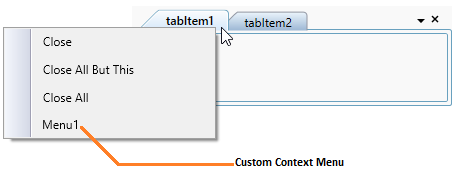
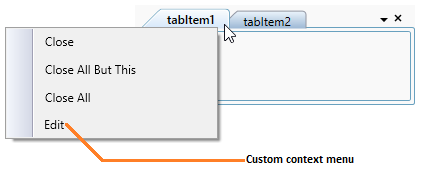
WPF-48386-Modified Context menu document for TabControl

Changed region(s): [[0.0, 0.0296, 1.0, 0.9763]]

diff --git a/wpf/TabControl/ContextMenu.md b/wpf/TabControl/ContextMenu.md
@@ -119,12 +119,12 @@ You can add the custom tabitem context menu using the [TabItemExt.ContextMenuIte
 <syncfusion:TabControlExt Name="tabControl" IsCustomTabItemContextMenuEnabled="True">
     <syncfusion:TabItemExt Header="tabItem1">
         <syncfusion:TabItemExt.ContextMenuItems>
-            <syncfusion:CustomMenuItem Header="Menu1" />
+            <syncfusion:CustomMenuItem Header="Edit" />
         </syncfusion:TabItemExt.ContextMenuItems>
     </syncfusion:TabItemExt>
-    <syncfusion:TabItemExt Header="tabItem2" IsSelected="True">
+    <syncfusion:TabItemExt Header="tabItem2">
         <syncfusion:TabItemExt.ContextMenuItems>
-            <syncfusion:CustomMenuItem Header="Menu2" />
+            <syncfusion:CustomMenuItem Header="Edit" />
         </syncfusion:TabItemExt.ContextMenuItems>
     </syncfusion:TabItemExt>
 </syncfusion:TabControlExt>
@@ -138,12 +138,12 @@ tabControlExt.IsCustomTabItemContextMenuEnabled = true;
 
 // Adding custom context menu for the first tabitem
 CustomMenuItem customMenuItem = new CustomMenuItem();
-customMenuItem.Header = "Menu1";
+customMenuItem.Header = "Edit";
 tabItemExt1.ContextMenuItems.Add(customMenuItem);
 
 // Adding custom context menu for the second tabitem
 CustomMenuItem customMenuItem1 = new CustomMenuItem();
-customMenuItem1.Header = "Menu2";
+customMenuItem1.Header = "Edit";
 tabItemExt2.ContextMenuItems.Add(customMenuItem1);
 
 {% endhighlight %}
